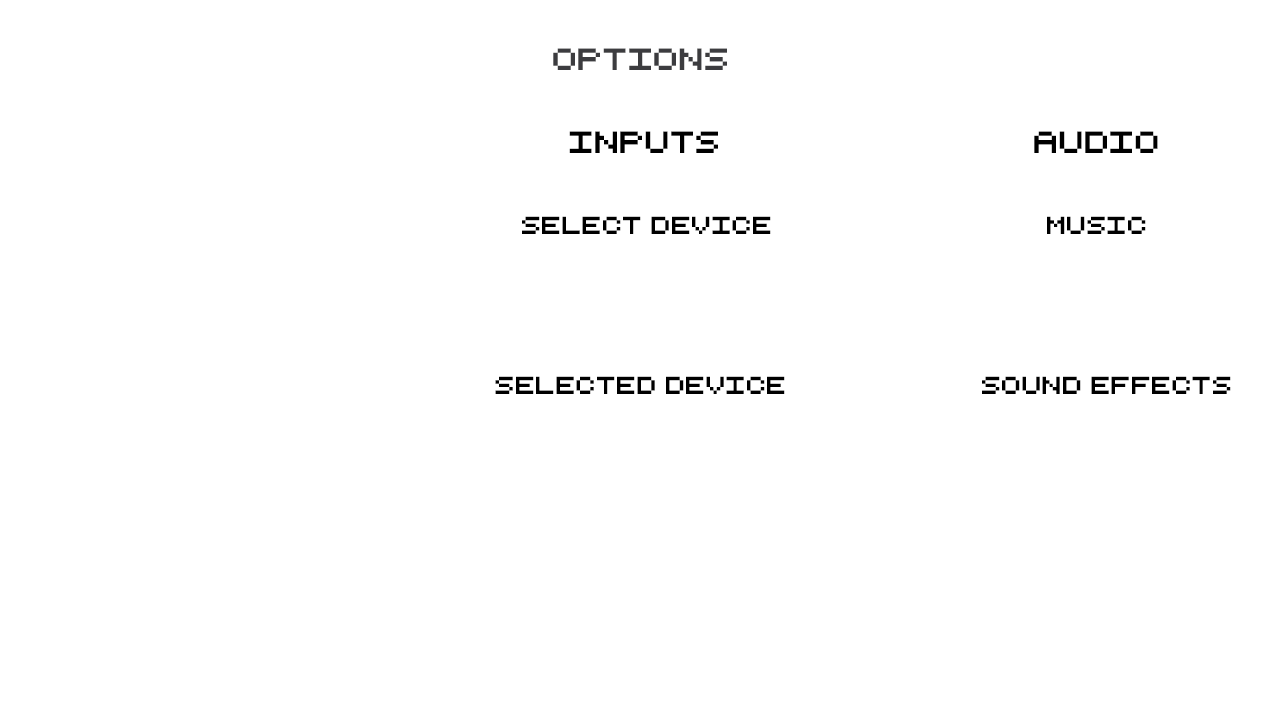
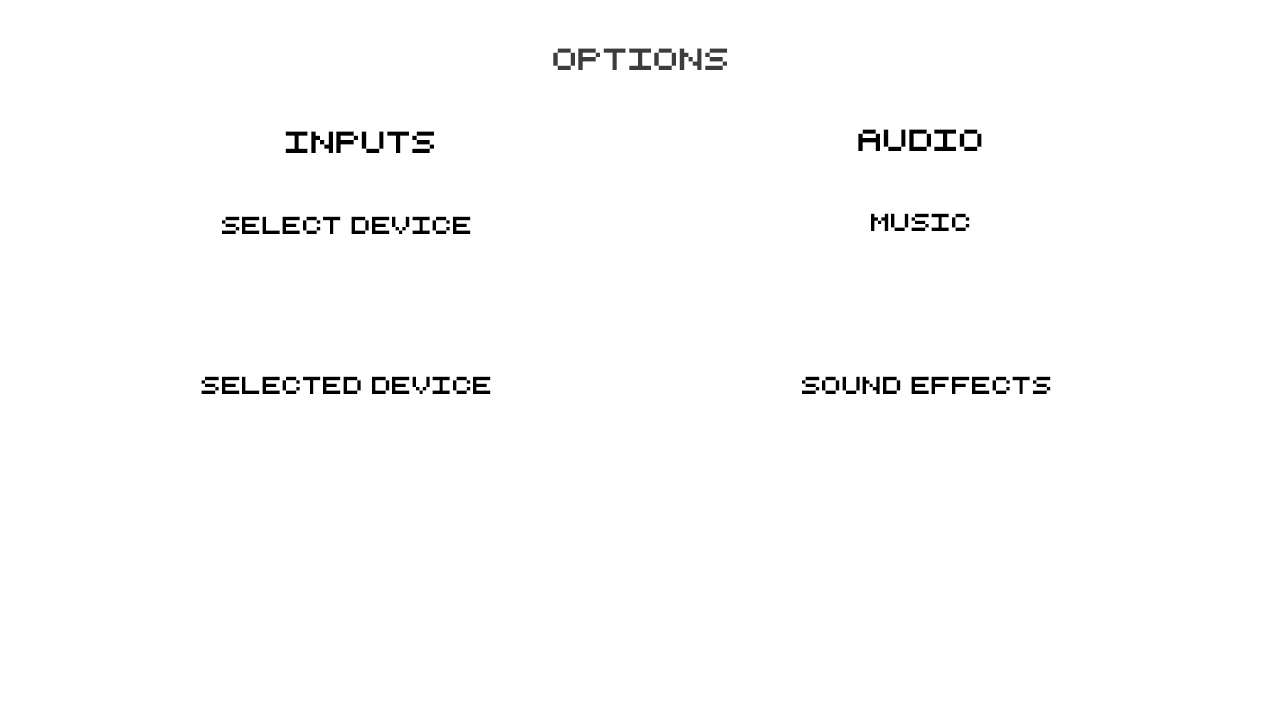
Exit & Options

diff --git a/RythmRPG/RythmRPG/RythmRPG/Pages/Options.cs b/RythmRPG/RythmRPG/RythmRPG/Pages/Options.cs
@@ -26,29 +26,29 @@ namespace RythmRPG.Pages {
         public override void Initialize() {
             this.MainImage = new Sprite(0, 0, Game1.Width, Game1.Height);
             this.Back = new Sprite(26 * Game1.UnitX, 16 * Game1.UnitY, 6 * Game1.UnitX, 2 * Game1.UnitY);
-            this.SeeControls = new Sprite(12 * Game1.UnitX, 13 * Game1.UnitY, Game1.ButtonWidth, Game1.ButtonHeight);
+            this.SeeControls = new Sprite(5 * Game1.UnitX, 13 * Game1.UnitY, Game1.ButtonWidth, Game1.ButtonHeight);
 
-            this.LeftDevice = new Sprite(12 * Game1.UnitX, 7 * Game1.UnitY, Game1.UnitX, Game1.UnitY);
-            this.RightDevice = new Sprite(19 * Game1.UnitX, 7 * Game1.UnitY, Game1.UnitX, Game1.UnitY);
-            this.LeftMusic = new Sprite(24 * Game1.UnitX, 7 * Game1.UnitY, Game1.UnitX, Game1.UnitY);
-            this.RightMusic = new Sprite(30 * Game1.UnitX, 7 * Game1.UnitY, Game1.UnitX, Game1.UnitY);
-            this.LeftSound = new Sprite(24 * Game1.UnitX, 11 * Game1.UnitY, Game1.UnitX, Game1.UnitY);
-            this.RightSound = new Sprite(30 * Game1.UnitX, 11 * Game1.UnitY, Game1.UnitX, Game1.UnitY);
+            this.LeftDevice = new Sprite(5 * Game1.UnitX, 7 * Game1.UnitY, Game1.UnitX, Game1.UnitY);
+            this.RightDevice = new Sprite(12 * Game1.UnitX, 7 * Game1.UnitY, Game1.UnitX, Game1.UnitY);
+            this.LeftMusic = new Sprite(20 * Game1.UnitX, 7 * Game1.UnitY, Game1.UnitX, Game1.UnitY);
+            this.RightMusic = new Sprite(26 * Game1.UnitX, 7 * Game1.UnitY, Game1.UnitX, Game1.UnitY);
+            this.LeftSound = new Sprite(20 * Game1.UnitX, 11 * Game1.UnitY, Game1.UnitX, Game1.UnitY);
+            this.RightSound = new Sprite(26 * Game1.UnitX, 11 * Game1.UnitY, Game1.UnitX, Game1.UnitY);
 
             this.VolumeMusic = new Sprite[5];
             this.VolumeSound = new Sprite[5];
             for (int i = 0; i < this.VolumeMusic.Length; i++) {
-                this.VolumeMusic[i] = new Sprite((25 + i) * Game1.UnitX, 7 * Game1.UnitY, Game1.UnitX / 2, Game1.UnitY);
+                this.VolumeMusic[i] = new Sprite((22 + i) * Game1.UnitX, 7 * Game1.UnitY, Game1.UnitX / 2, Game1.UnitY);
             }
             for (int i = 0; i < this.VolumeSound.Length; i++) {
-                this.VolumeSound[i] = new Sprite((25 + i) * Game1.UnitX, 11 * Game1.UnitY, Game1.UnitX / 2, Game1.UnitY);
+                this.VolumeSound[i] = new Sprite((22 + i) * Game1.UnitX, 11 * Game1.UnitY, Game1.UnitX / 2, Game1.UnitY);
             }
 
             this.ResetProgression = new Sprite(12 * Game1.UnitX, 16 * Game1.UnitY, Game1.ButtonWidth, Game1.ButtonHeight);
-            this.Keyboard = new Sprite(14 * Game1.UnitX, 10 * Game1.UnitY, 4 * Game1.UnitX, 2 * Game1.UnitY);
-            this.Devices = new Sprite(14 * Game1.UnitX, 6 * Game1.UnitY, 4 * Game1.UnitX, 2 * Game1.UnitY);
+            this.Keyboard = new Sprite(7 * Game1.UnitX, 10 * Game1.UnitY, 4 * Game1.UnitX, 2 * Game1.UnitY);
+            this.Devices = new Sprite(7 * Game1.UnitX, 6 * Game1.UnitY, 4 * Game1.UnitX, 2 * Game1.UnitY);
 
-            this.MuteMenu = new Sprite(24 * Game1.UnitX, 13 * Game1.UnitY, 7 * Game1.UnitX, Game1.UnitY);
+            this.MuteMenu = new Sprite(20 * Game1.UnitX, 13 * Game1.UnitY, 7 * Game1.UnitX, Game1.UnitY);
         }
         public override void LoadContent(Microsoft.Xna.Framework.Content.ContentManager content) {
             this.MainImage.LoadContent(content, "Options/Options");

diff --git a/RythmRPG/RythmRPG/RythmRPG/Pages/StartMenu.cs b/RythmRPG/RythmRPG/RythmRPG/Pages/StartMenu.cs
@@ -16,7 +16,7 @@ namespace RythmRPG.Pages {
         public Sprite LeftSave { get; set; }
         public Sprite RightSave { get; set; }
 
-        public Sprite Exit { get; set; }
+        public Sprite ExitButton { get; set; }
         public CharacterSprites Character { get; set; }
 
         public const float VOLUME_ON = 0.5f;
@@ -39,7 +39,7 @@ namespace RythmRPG.Pages {
             this.MainImage = new Sprite(0, 0, Game1.Width, Game1.Height);
             this.Character = new CharacterSprites(new Vector2(19 * Game1.UnitX, 5 * Game1.UnitY), 0, 2.55f, 0);
             this.Start = new Sprite(3 * Game1.UnitX, 3 * Game1.UnitY, Game1.ButtonWidth, 2 * Game1.ButtonHeight);
-            this.Exit = new Sprite(3 * Game1.UnitX, 6 * Game1.UnitY, Game1.ButtonWidth, 2 * Game1.ButtonHeight);
+            this.ExitButton = new Sprite(3 * Game1.UnitX, 6 * Game1.UnitY, Game1.ButtonWidth, 2 * Game1.ButtonHeight);
             this.Options = new Sprite(3 * Game1.UnitX, 9 * Game1.UnitY, Game1.ButtonWidth, 2* Game1.ButtonHeight);
             this.SaveSprites = new Sprite[Save.NB_SAVE];
             for (int i = 0; i < Save.NB_SAVE; i++) {
@@ -52,7 +52,7 @@ namespace RythmRPG.Pages {
         public override void LoadContent(Microsoft.Xna.Framework.Content.ContentManager content) {
             this.MainImage.LoadContent(content, "StartMenu/StartMenu");
             this.Start.LoadContent(content, "StartMenu/Start");
-            this.Exit.LoadContent(content, "StartMenu/Exit");
+            this.ExitButton.LoadContent(content, "StartMenu/Exit");
             this.Options.LoadContent(content, "StartMenu/Options");
             this.LeftSave.LoadContent(content, "Options/ArrowLeft");
             this.RightSave.LoadContent(content, "Options/ArrowRight");
@@ -85,6 +85,9 @@ namespace RythmRPG.Pages {
                     EffectClick.Play();
                     Game1.GameState = GameState.GameMenu;
                 }
+                else if (isOver(mouse, ExitButton)) {
+                    Game1.GameState = GameState.Exit;
+                }
                 else if (isOver(mouse, LeftSave) && Game1.Save.SelectedSave > 0) {
                     EffectClick.Play();
                     Game1.Save.SelectedSave -= 1;
@@ -99,7 +102,7 @@ namespace RythmRPG.Pages {
         public override void Draw(Microsoft.Xna.Framework.Graphics.SpriteBatch spriteBatch, Microsoft.Xna.Framework.GameTime gameTime) {
             this.MainImage.Draw(spriteBatch, gameTime);
             this.Start.Draw(spriteBatch, gameTime);
-            this.Exit.Draw(spriteBatch, gameTime);
+            this.ExitButton.Draw(spriteBatch, gameTime);
             this.Options.Draw(spriteBatch, gameTime);
             this.LeftSave.Draw(spriteBatch, gameTime);
             this.RightSave.Draw(spriteBatch, gameTime);

diff --git a/RythmRPG/RythmRPG/RythmRPG/Game1.cs b/RythmRPG/RythmRPG/RythmRPG/Game1.cs
@@ -245,6 +245,9 @@ namespace RythmRPG {
                 case RythmRPG.GameState.ModifyCharacter:
                     this.ModifyCharacter.HandleInput(this.PreviousKeyBoardState, this.CurrentKeyBoardState, this.PreviousMouseState, this.CurrentMouseState);
                     break;
+                case RythmRPG.GameState.Exit:
+                    this.Exit();
+                    break;
             };
 
             base.Update(gameTime);
@@ -308,10 +311,6 @@ namespace RythmRPG {
             };
 
             base.Draw(gameTime);
-        }
-
-        public void ChangeTheme() {
-            this.LoadContent();
         }
     }
 }

diff --git a/RythmRPG/RythmRPG/RythmRPG/GameState.cs b/RythmRPG/RythmRPG/RythmRPG/GameState.cs
@@ -19,6 +19,7 @@ namespace RythmRPG {
         PlaylistDefeat,
         Pause,
         Defeat,
-        MusicPlaying
+        MusicPlaying,
+        Exit
     }
 }
